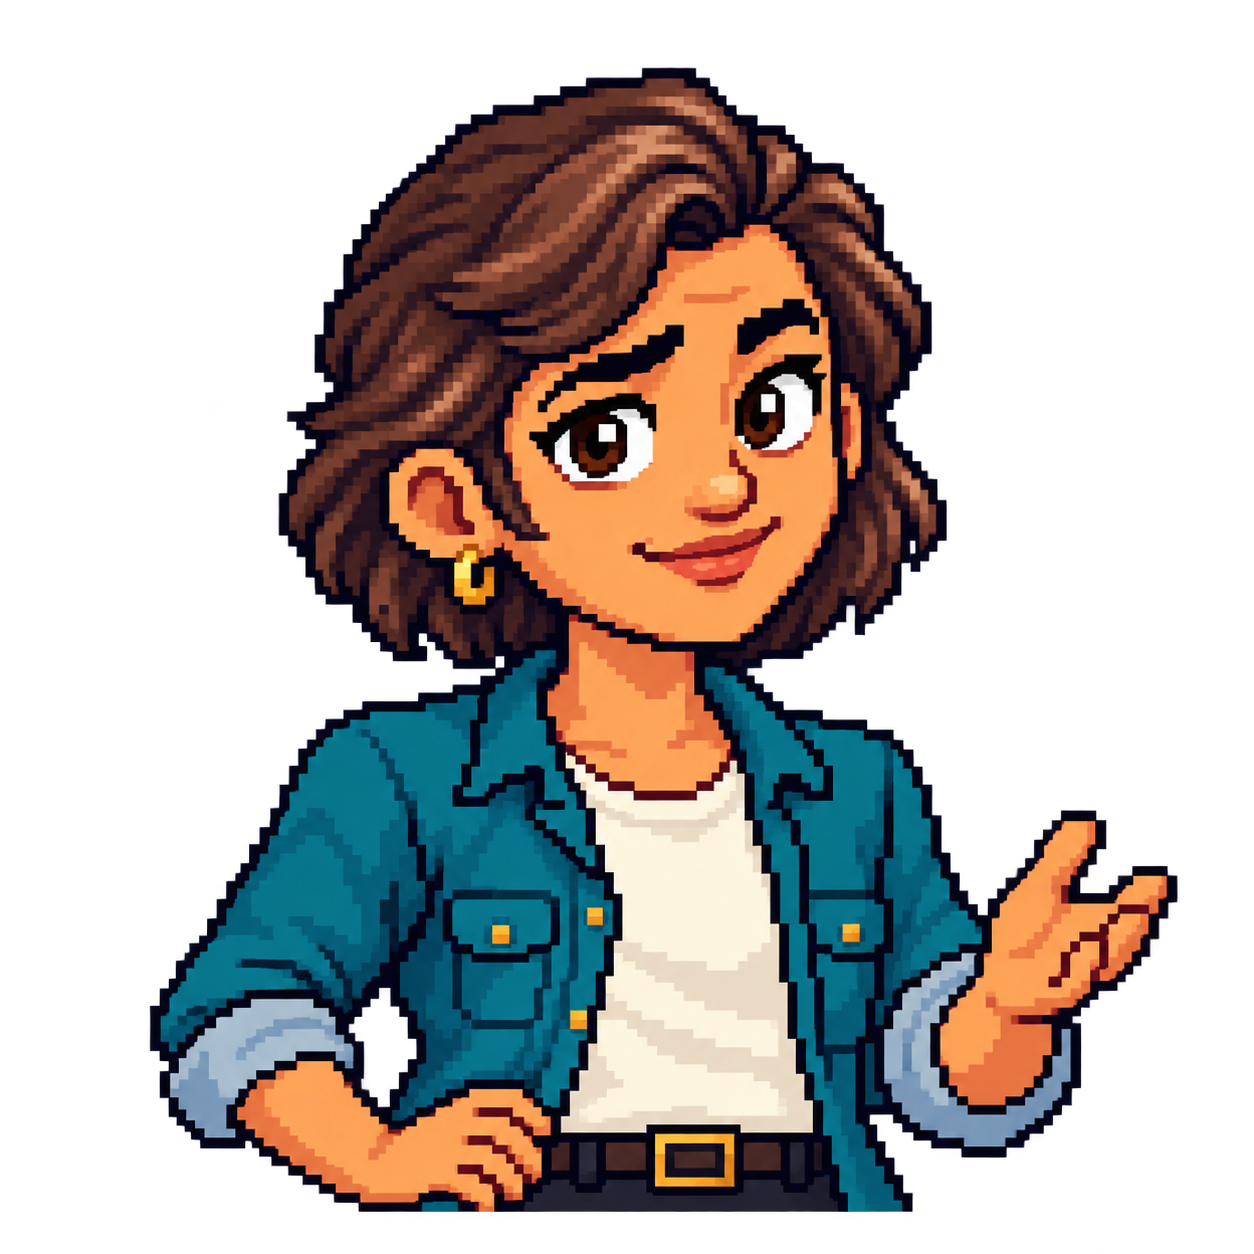
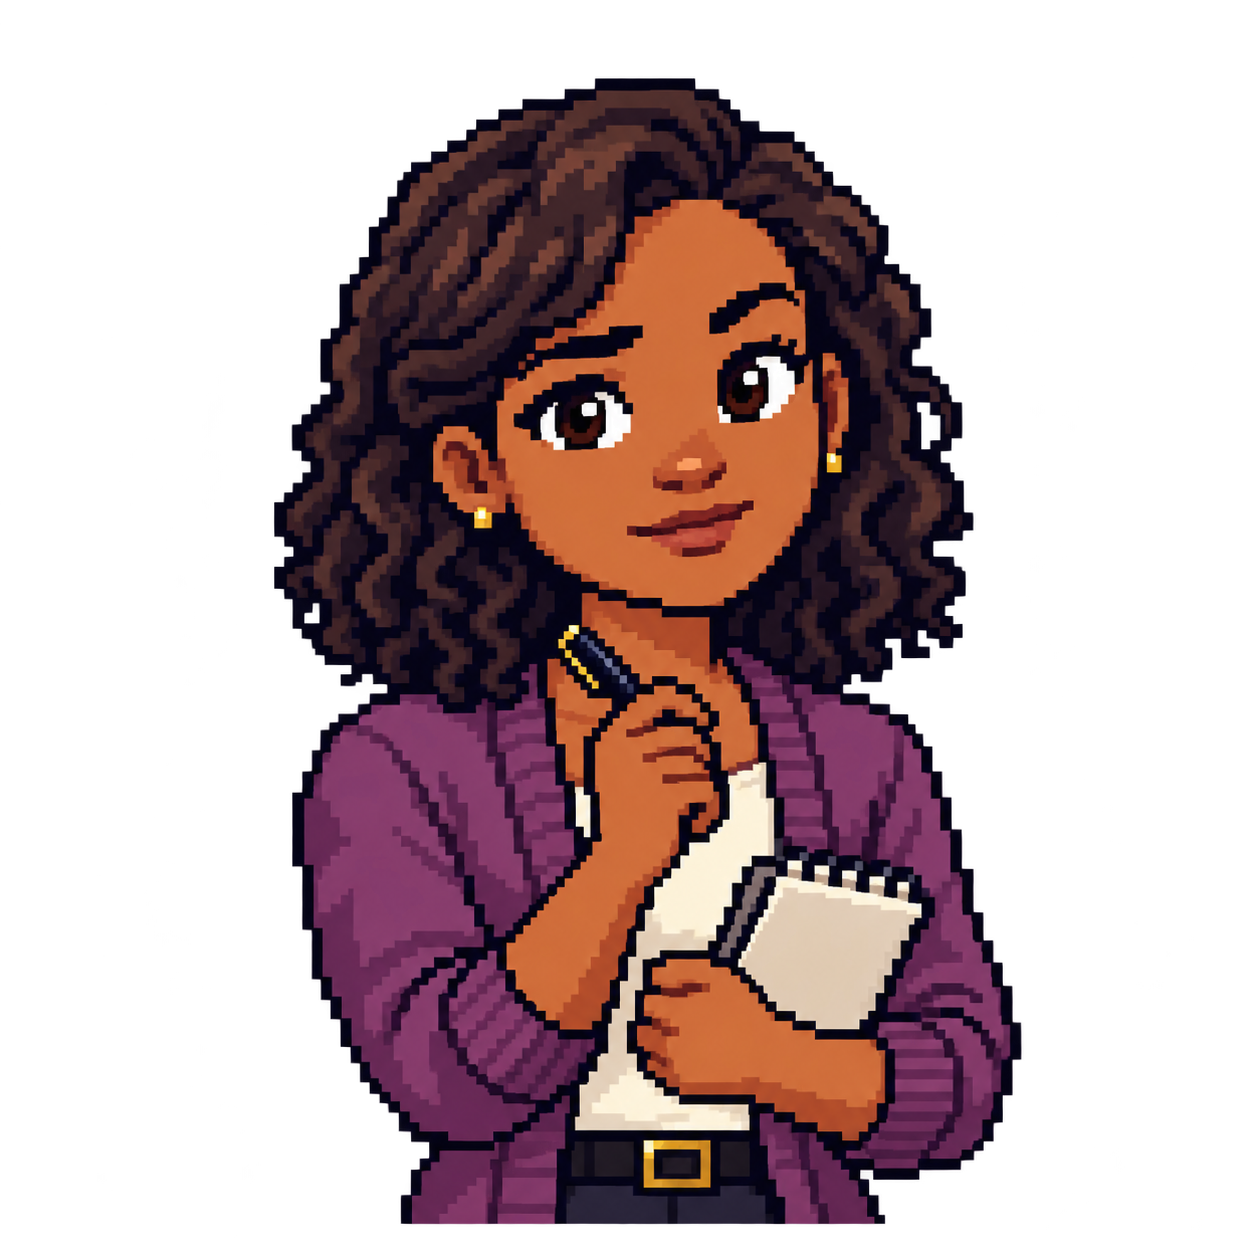
Refresh Sam portraits as approachable journalists

diff --git a/docs/solutioning/sam-portraits.md b/docs/solutioning/sam-portraits.md
@@ -1,25 +1,27 @@
 # Sam portraits
 
-The male and female versions represent the same warm, perceptive interviewer. Both use the existing cast's large heads, compact waist-up framing, chunky pixels, dark outlines, and simple saturated shading. Matching chestnut hair, teal overshirts, cream shirts and open gestures connect the two versions.
-
-The first pair had realistic proportions and excessive detail. They were replaced using the actual Morgan and Harper sprites as visual references, then the new male Sam as the identity reference for the female version. The PNGs preserve transparent backgrounds.
+Sam has two distinct, approachable journalist portraits. Both retain the existing clients’ chunky pixel art, exaggerated head-to-body proportions and waist-up framing. They have quieter expressions, notebooks and different clothes, hair and poses. They do not need to look like gender-swapped twins.
 
 - Male asset: `public/interview/sam-male.png`
 - Female asset: `public/interview/sam-female.png`
-- Method: built-in image generation, reference-image edit mode.
+- Method: built-in image generation with existing client sprites as style references.
+- Male references: Morgan and Casey. Female references: Avery and Morgan.
+- Both PNGs have transparent backgrounds.
+
+Verified valid PNG alpha and all nine setup/live/summary previews at 1440, 390 and 320 px. Captures: `output/interview-ui/journalist-portraits/`. The preview used temporary in-memory local state; stored sessions were untouched.
 
 ## Male prompt
 
-Edit the supplied pixel-art character sprites into a NEW male character named Sam for THE EXACT SAME GAME CAST. Use reference 1 (Morgan) and reference 2 (Harper) as strict art-style and proportion references, not as people to copy. Deliver ONE isolated character portrait, transparent background, square canvas.
+Use case: stylized-concept. Create a new MALE Sam interviewer sprite for this pixel-art game. Image 1 (Morgan) and image 2 (Casey) are STYLE REFERENCES ONLY. Keep their exact 8-bit game-character aesthetic: oversized expressive adult head, compact torso, waist-up crop, chunky pixel clusters, dark stepped outlines, limited color shading. Do not switch to realistic human proportions or smooth illustration.
 
-CRITICAL: match the references' exaggerated proportions EXACTLY: huge head and expressive big eyes, head from crown to chin approximately HALF the visible figure's total height; short compact shoulders and torso; crop at the belt/waist, no legs. Match the chunky visible pixels, dark stepped outlines, simple 3-5 color shading ramps, bold saturated game-sprite color and crisp blocky pixel clusters of the actual references. This should plausibly be the next asset drawn by the same sprite artist. Do NOT make a realistic-proportioned person, detailed portrait painting, fine textured pixel illustration, tiny head or long torso. Use roughly the same apparent 100-150-pixel-wide character grid as the references even if delivered at larger resolution.
+Character: an approachable, seasoned journalist in his mid-40s. Short slightly untidy dark hair with a little gray at the temples, subtle stubble, modest round dark glasses, thoughtful kind eyes and a small relaxed closed-mouth smile. An ordinary interesting person who is listening carefully, with a hint of dry wit. Keep the face recognizably adult and grounded within the exaggerated game proportions. Casual olive jacket over a faded navy shirt, holding a small plain reporter's notebook and a pen loosely near his waist. Relaxed shoulders, understated listening pose. No hand on hip, sales-pitch gesture, giant grin, raised cartoon eyebrow, coiffed swoop of hair or cute mascot mannerisms.
 
-Sam is the approachable male interviewer, around 35-40, warm medium skin, softly swept chestnut-brown wavy hair, large brown eyes with relaxed friendly eyebrows and an easy genuine smile. Light neat stubble, no glasses. A casual teal overshirt with rolled sleeves over a cream T-shirt, no tie or blazer. Relaxed open posture, one hand at waist and the other gently open in a listening gesture. Friendly competent buddy who pays attention, not a stern executive, no exaggerated grin. Three-quarter view facing slightly right but engaging the viewer, symmetrical enough to pair with a female version later. Waist-up composition centered and fills frame, 5% padding top/bottom, same sprite scale as references. No words, props, microphone, furniture, scenic background, drop shadow or watermark. Preserve real transparent alpha around the figure.
+Single centered character, same waist-up scale and crisp pixel treatment as the supplied client sprites, transparent background with real alpha, comfortable padding so hands and hair are fully visible. No lettering, logos, scenery, microphone, watermark or drop shadow. This is a fresh design; do not resemble the prior teal-shirt Sam or attempt to match a female counterpart.
 
 ## Female prompt
 
-Create the FEMALE VERSION OF SAM using image 1 (the approved male Sam sprite) as the identity, outfit, pose, proportions and palette reference, with image 2 (Harper from the same game) as an additional exact pixel-art style reference. Deliver ONE isolated female character portrait on a truly transparent background, square canvas.
+Use case: stylized-concept. Create a new FEMALE Sam interviewer sprite for this pixel-art game. Images 1 (Avery) and 2 (Morgan) are STYLE REFERENCES ONLY. Keep their exact 8-bit game-character aesthetic: oversized expressive adult head, compact torso, waist-up crop, chunky pixel clusters, dark stepped outlines, limited color shading. Do not switch to realistic human proportions or smooth illustration.
 
-Preserve image 1's art style and proportions EXACTLY: huge head about half the visible total figure height, big kind brown eyes, short compact torso, waist/belt crop with no legs, coarse visible pixel grid, dark stepped pixel outline and bold 3-5 color shading ramps. No realistic head-body proportions, fine texture, smooth illustration, photographic skin, small head or long torso. This must be unmistakably from the same game sprite cast as both reference images.
+Character: an approachable, perceptive journalist in her early-40s. Warm medium-brown skin, shoulder-length dark curly hair tucked back on one side, small simple earrings, alert kind eyes and a subtle friendly closed-mouth smile. The expression says she is interested in your story and has a smart follow-up, without being stern or overly eager. Adult facial character within the game's exaggerated proportions. Soft plum cardigan over a cream top, a small plain notebook resting against her forearm with a pen held casually. Comfortable unposed posture and slight listening head tilt. No hand on hip, sales-pitch gesture, giant grin, eyebrow theatrics or cute mascot mannerisms.
 
-She is the same approachable thoughtful interviewer Sam, just female: around 35-40, warm medium skin matching male Sam, chestnut brown softly swept wavy hair in an ear-to-chin-length bob, the same friendly brown eye shapes, relaxed expressive eyebrows and warm easy small smile. No beard, no glasses. SAME casual teal overshirt with rolled sleeves and gold buttons over SAME cream T-shirt, same belt, same relaxed open stance: one hand at waist and other gently open in a listening gesture, not a sales pitch. Similar face shape and family resemblance to male Sam, same angle and scale, slightly turned to the right while engaging viewer. Kind attentive buddy, not a glamorous model or stern executive. Centered waist-up with 5% padding, matched height to image 1. No text, props, scenery, furniture, drop shadow, watermark. Preserve actual transparent alpha outside figure.
+Single centered character, same waist-up scale and crisp pixel treatment as the supplied client sprites, transparent background with real alpha, comfortable padding so hands and hair are fully visible. No lettering, logos, scenery, microphone, watermark or drop shadow. Design her independently; she should not be a gender-swapped twin or wear the same clothes as male Sam.
